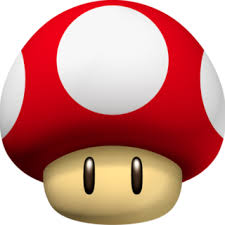
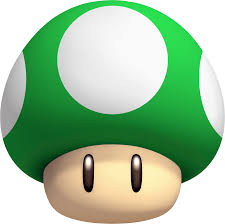
ch(image): change mushroom image from red mushroom to green mushroom

diff --git a/index.jsx b/index.jsx
@@ -1,18 +1,14 @@
 import React, { Component } from 'react';
 import { render } from 'react-dom';
 import Game from './src/components/Game';
-import Consumer from './src/Consumer';
 import ErrorBoundary from './src/components/ErrorBoundary';
-import Provider from './src/Provider';
 
 const app = document.getElementById('root');
 
 render(
-    <Consumer>
-      <ErrorBoundary>
-        <Game/>
-      </ErrorBoundary>
-    </Consumer>,
+    <ErrorBoundary>
+      <Game/>
+    </ErrorBoundary>,
   app
 );
 // render(
